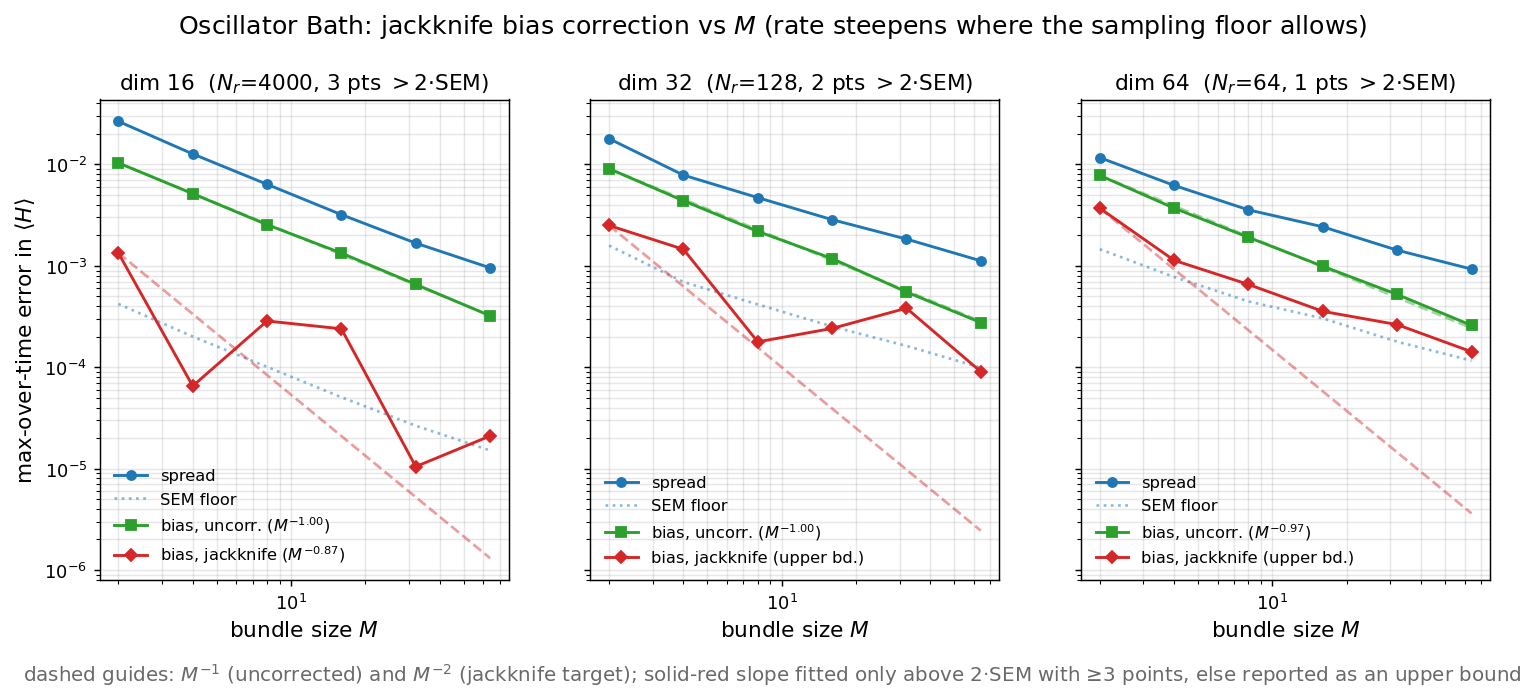
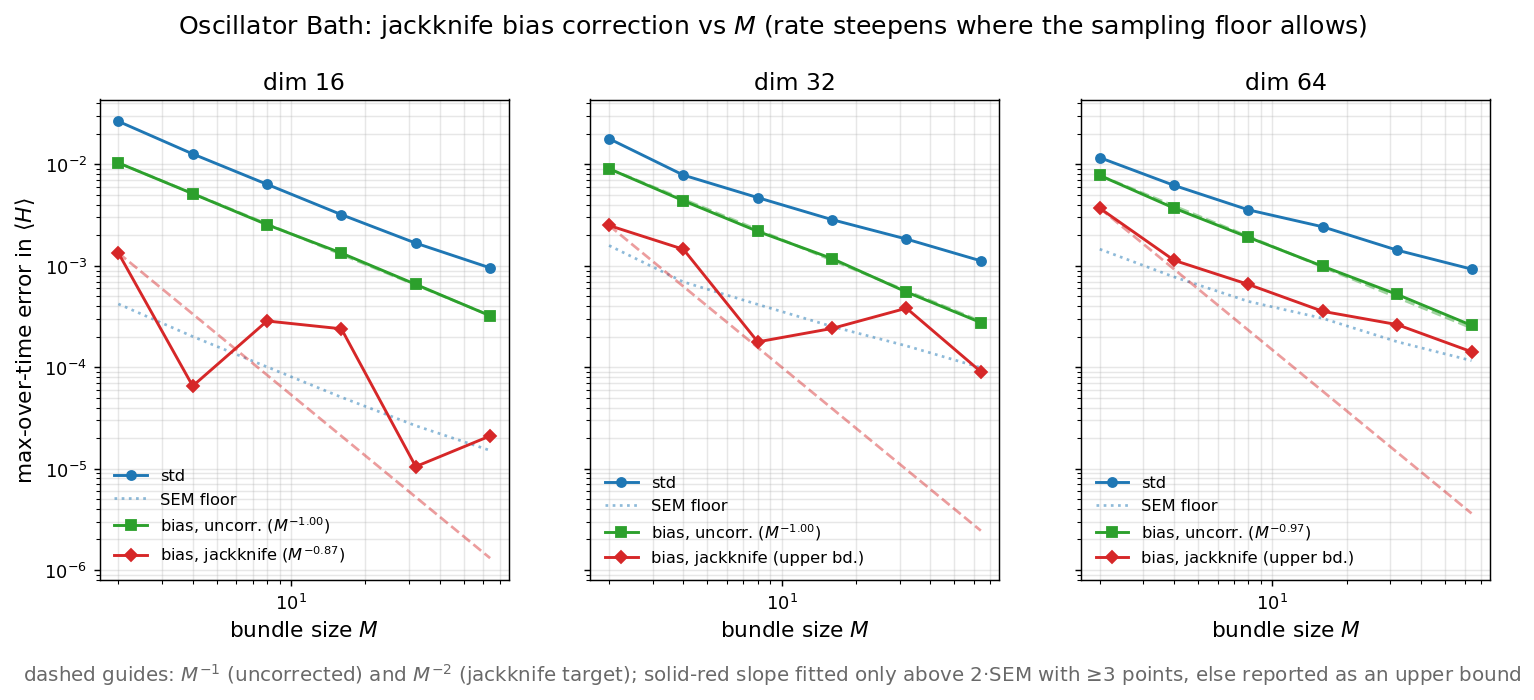
jackknife strips: rename spread->std, simplify panel titles to dim only (floor-crossing is read off the SEM line)

diff --git a/benchmarks/plot_jackknife_rate_strip.py b/benchmarks/plot_jackknife_rate_strip.py
@@ -84,7 +84,7 @@ def fit_stats(d):
 
 def draw_panel(ax, f, label, show_ylabel):
     M, stat, bias, bjk, sem = f["M"], f["stat"], f["bias"], f["bjk"], f["sem"]
-    ax.loglog(M, stat, "o-", color="tab:blue", lw=1.6, ms=5, label="spread")
+    ax.loglog(M, stat, "o-", color="tab:blue", lw=1.6, ms=5, label="std")
     ax.loglog(M, sem, ":", color="tab:blue", alpha=0.5, label="SEM floor")
     ax.loglog(M, bias, "s-", color="tab:green", lw=1.6, ms=5,
               label=fr"bias, uncorr. ($M^{{{f['b_slope']:.2f}}}$)")
@@ -96,8 +96,7 @@ def draw_panel(ax, f, label, show_ylabel):
     ax.loglog(M, bias[0]*(M/M[0])**-1.0, "--", color="tab:green", alpha=0.45)
     ax.loglog(M, bjk[0]*(M/M[0])**-2.0, "--", color="tab:red", alpha=0.45)
 
-    ax.set_title(f"{label}  ($N_r$={f['nr']}, {f['n_above']} pts $>$2\u00b7SEM)",
-                 fontsize=12)
+    ax.set_title(label, fontsize=13)
     ax.set_xlabel("bundle size $M$", fontsize=12)
     if show_ylabel:
         ax.set_ylabel(r"max-over-time error in $\langle H\rangle$", fontsize=12)
